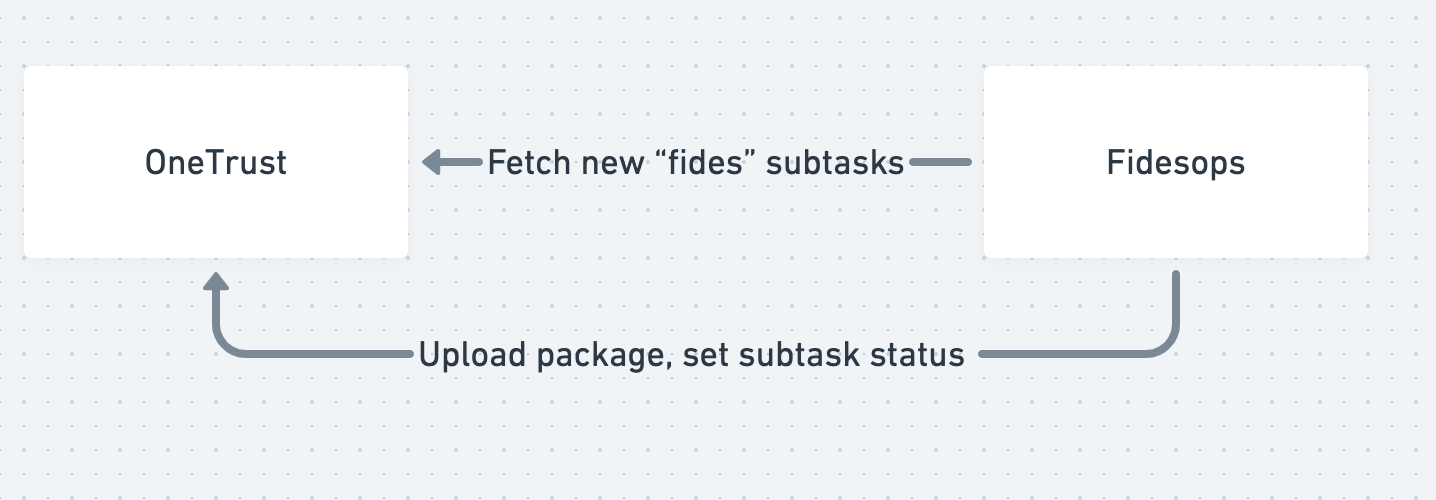
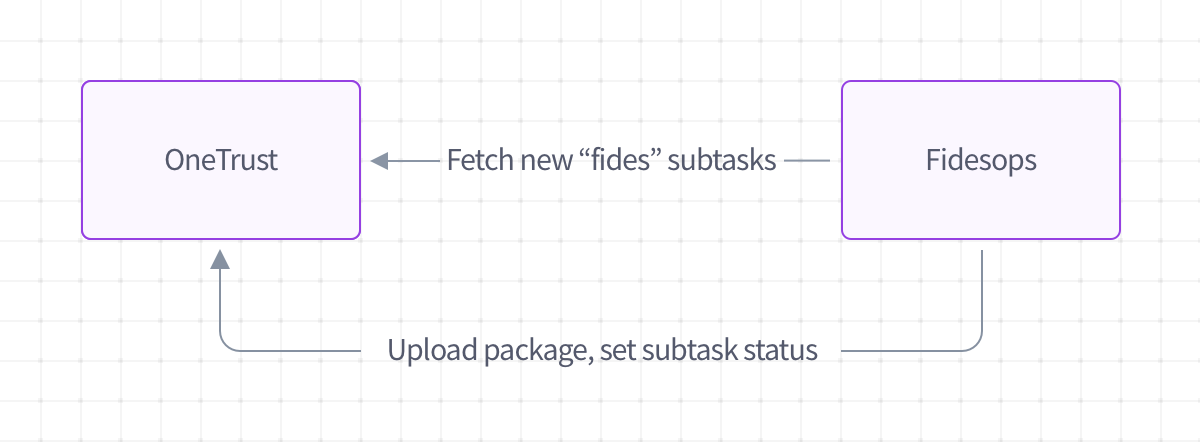
updating images for docs site (#227)

diff --git a/docs/fidesops/docs/deployment.md b/docs/fidesops/docs/deployment.md
@@ -8,7 +8,7 @@ Fully deployed, `fidesops` has three individual systems you'll need to run:
 2. [**Hosted Cache**](#step-2-setup-hosted-cache): Redis database server used as a temporary cache during execution and scheduling of tasks
 3. [**fidesops Web Server**](#step-3-setup-fidesops-web-server): Main application with API endpoints to configure, execute, and report on privacy requests
 
-![Deployment Diagram](img/Deployment_Diagram.svg)
+![Deployment Diagram](img/Deployment_Diagram.png)
 
 Let's review each individually.
 
